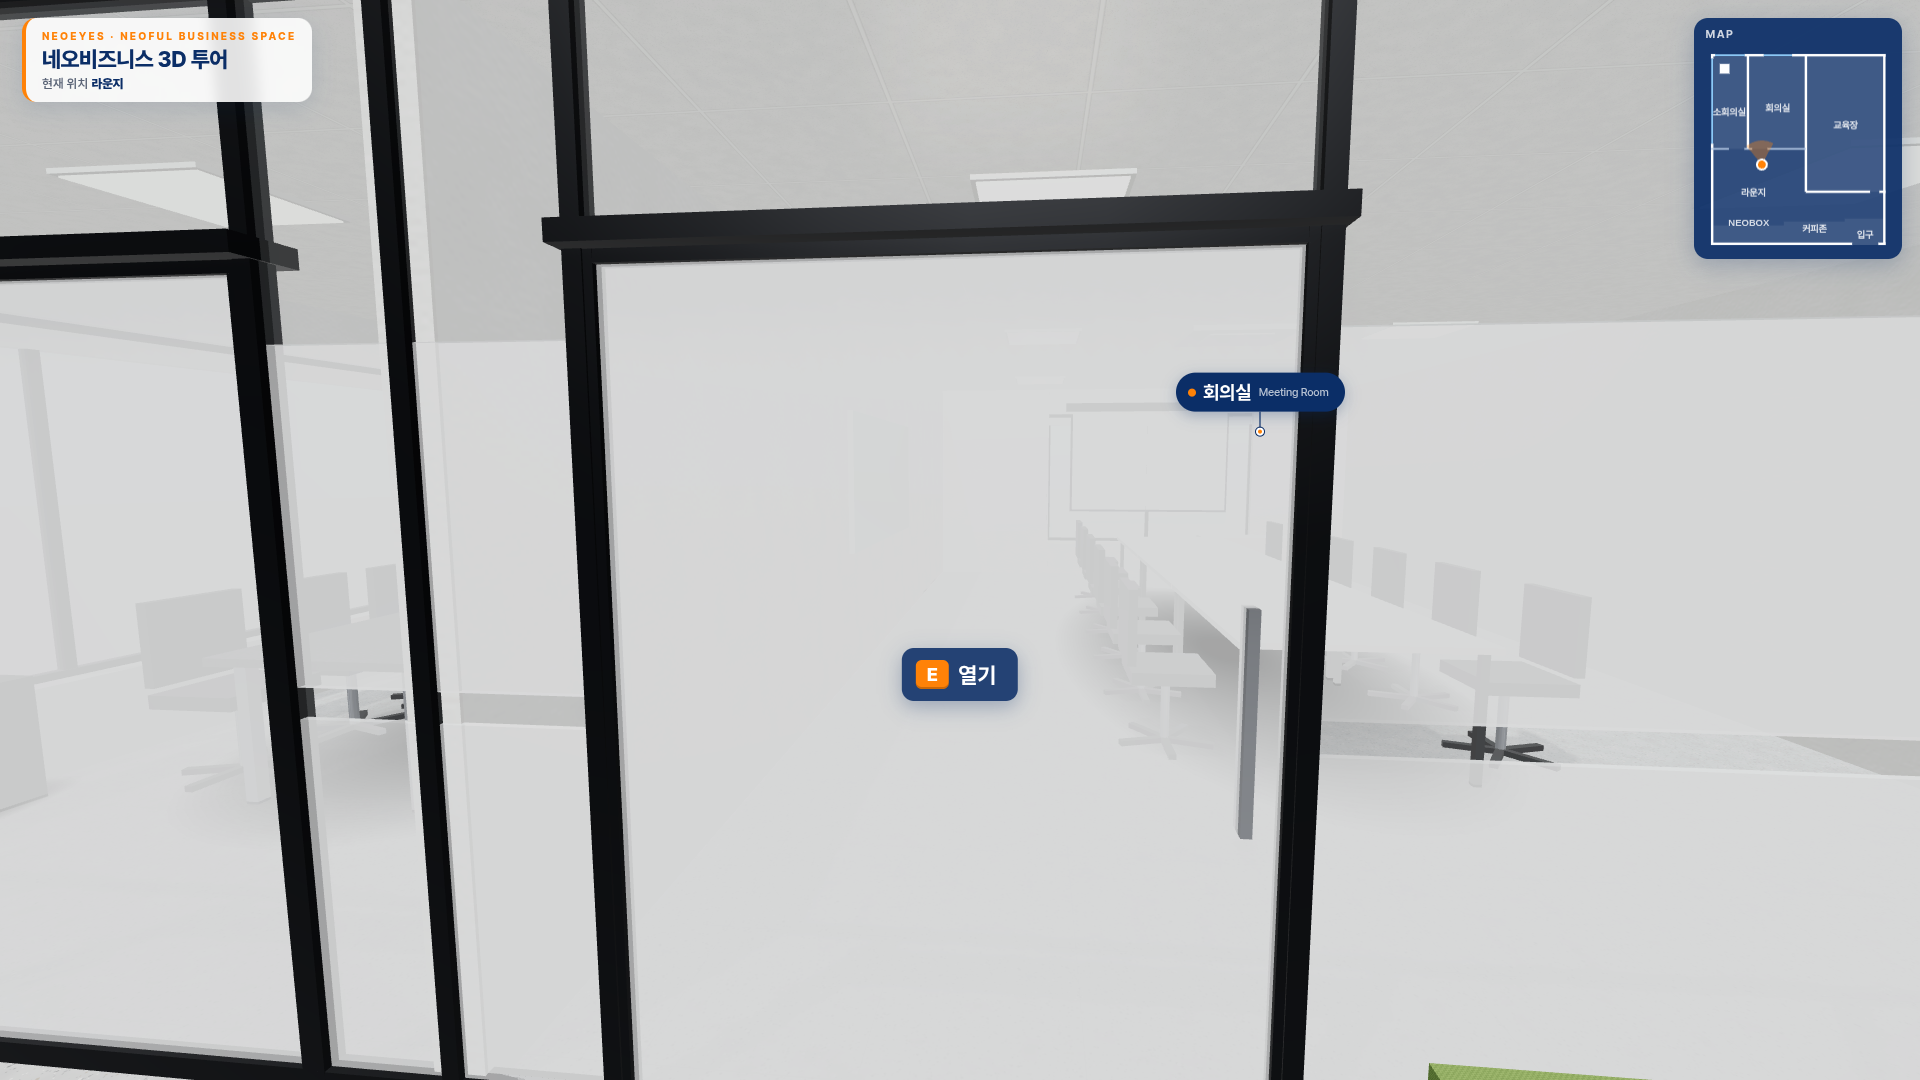
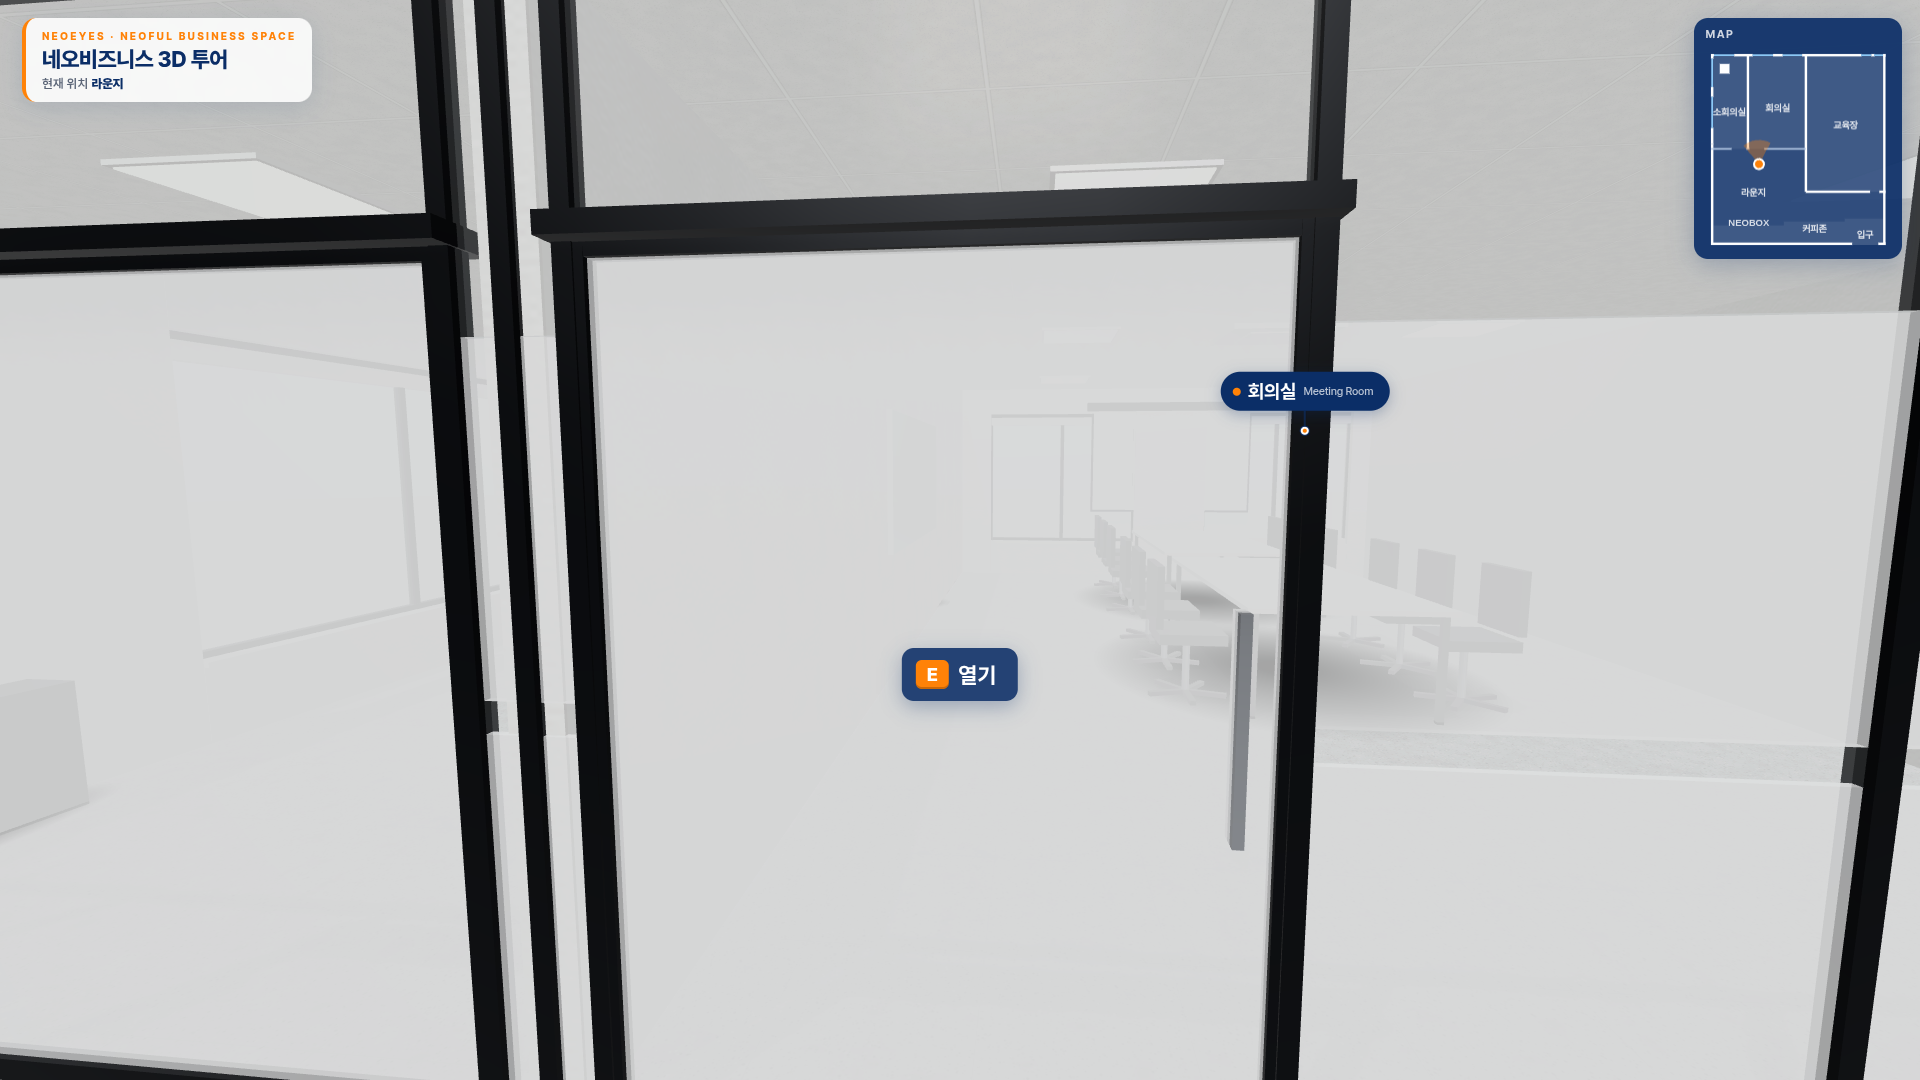
Windows, desks and doors per office sketch

diff --git a/layout.js b/layout.js
@@ -33,7 +33,7 @@ window.LAYOUT = {
      순서가 중요해요: 위에 있는 방이 먼저 판정돼요(라운지는 나머지 전체라 맨 아래).          */
   rooms: [
     { id:'coaching', name:'소회의실', en:'Small Meeting Room', rect:[0, 0, 3.81, 9.74], floor:'floor',
-      label:[1.9, 6.0], jump:{ x:2.6, z:4.7, look:[0.4, 0.9] },
+      label:[1.9, 6.0], jump:{ x:3.0, z:7.9, look:[1.2, 2.2] },
       card:{ photos:['IMG_0415','IMG_0418','IMG_0419','IMG_0416'],
              desc:'창가 쪽 코너에 있는 작은 회의실이에요. 블랙 미팅 테이블과 화이트보드가 있고, 기둥 뒤 창가에는 L자 바 테이블과 바 스툴, 회색 수납 벤치와 주황 큐브 스툴이 있어요.' } },
     { id:'meeting', name:'회의실', en:'Meeting Room', rect:[3.81, 0, 9.79, 9.74], floor:'floor',
@@ -78,14 +78,24 @@ window.LAYOUT = {
                   swing = 열렸을 때 각도(도). NEOBOX 부스 문도 booth 가구에 open:true / swing 을 넣을 수 있어요.          */
   walls: [
     // 바깥벽 — 북쪽(위)
-    { from:[0, 0],     to:[0.42, 0],  type:'solid',  outer:true },
-    { from:[0.42, 0],  to:[3.49, 0],  type:'window', outer:true },   // 소회의실 창
-    { from:[3.49, 0],  to:[5.45, 0],  type:'solid',  outer:true },
-    { from:[5.45, 0],  to:[8.36, 0],  type:'window', outer:true },   // 회의실 창
-    { from:[8.36, 0],  to:[18, 0],    type:'solid',  outer:true },
+    // (2026-11-18 스케치 반영: 초록색 = 창문)
+    { from:[0, 0],     to:[0.3, 0],   type:'solid',  outer:true },
+    { from:[0.3, 0],   to:[2.4, 0],   type:'window', outer:true },   // 소회의실 창 (왼쪽 한 구간)
+    { from:[2.4, 0],   to:[4.3, 0],   type:'solid',  outer:true },
+    { from:[4.3, 0],   to:[6.4, 0],   type:'window', outer:true },   // 회의실 창 ①
+    { from:[6.4, 0],   to:[7.4, 0],   type:'solid',  outer:true },
+    { from:[7.4, 0],   to:[9.4, 0],   type:'window', outer:true },   // 회의실 창 ②
+    { from:[9.4, 0],   to:[15.5, 0],  type:'solid',  outer:true },
+    { from:[15.5, 0],  to:[16.55, 0], type:'window', outer:true },   // 교육장 창 ① (오른쪽 절반, 스크린과 겹치지 않게)
+    { from:[16.55, 0], to:[16.85, 0], type:'solid',  outer:true },
+    { from:[16.85, 0], to:[17.8, 0],  type:'window', outer:true },   // 교육장 창 ②
+    { from:[17.8, 0],  to:[18, 0],    type:'solid',  outer:true },
     // 바깥벽 — 서쪽(왼쪽)
     { from:[0, 0],     to:[0, 0.48],  type:'solid',  outer:true },
-    { from:[0, 0.48],  to:[0, 9.21],  type:'window', outer:true },   // 소회의실 창
+    { from:[0, 0.48],  to:[0, 3.4],   type:'window', outer:true },   // 소회의실 창 ① (위)
+    { from:[0, 3.4],   to:[0, 4.4],   type:'solid',  outer:true },
+    { from:[0, 4.4],   to:[0, 7.6],   type:'window', outer:true },   // 소회의실 창 ② (가운데)
+    { from:[0, 7.6],   to:[0, 9.21],  type:'solid',  outer:true },
     { from:[0, 9.21],  to:[0, 19.6],  type:'solid',  outer:true, molding:'east', moldingFrom:9.9, moldingTo:17.3 },  // 라운지 몰딩 벽 (molding: 몰딩을 붙일 면, From~To 구간)
     // 바깥벽 — 남쪽(아래), 입구 유리 양문
     { from:[0, 19.6],  to:[18, 19.6], type:'solid',  outer:true,
@@ -97,9 +107,9 @@ window.LAYOUT = {
     { from:[3.81, 0],  to:[3.81, 9.74], type:'solid' },                       // 소회의실 | 회의실
     { from:[9.79, 0],  to:[9.79, 14.14], type:'solid', t:0.30, molding:'west', moldingFrom:9.86, moldingTo:14.14 },  // 회의실·라운지 | 교육장
     { from:[0, 9.74],  to:[3.81, 9.74], type:'glass',
-      openings:[ { at:1.85, width:1.59, door:'glass', hinge:'end', swing:-63 } ] },    // 소회의실 앞 유리벽 + 문
+      openings:[ { at:2.12, width:1.55, door:'glass', hinge:'end', swing:-63 } ] },    // 소회의실 앞 유리벽 + 문(동쪽 끝)
     { from:[3.81, 9.74], to:[9.79, 9.74], type:'glass',
-      openings:[ { at:4.24, width:1.59, door:'glass', hinge:'start', swing:63 } ] },   // 회의실 앞 유리벽 + 문
+      openings:[ { at:3.95, width:1.55, door:'glass', hinge:'start', swing:63 } ] },   // 회의실 앞 유리벽 + 문(서쪽 끝, 소회의실 문 바로 옆)
     { from:[9.79, 14.14], to:[18, 14.14], type:'solid', t:0.30,
       openings:[ { at:16.41, width:0.95, door:'glass', frame:'white', hinge:'start', swing:66 } ] }  // 교육장 출입문
   ],
@@ -133,22 +143,23 @@ window.LAYOUT = {
      종류 목록은 수정방법.md 참고                                                     */
   furniture: [
     /* --- 소회의실 --- */
-    { type:'tableSet', x:2.0, z:7.09, w:1.05, d:2.6, top:'darkTop', chairsLeft:4, chairsRight:4, chairInset:0.37, legInset:0.1 },   // 블랙 미팅 테이블 + 의자 4+4
+    { type:'tableSet', x:1.35, z:3.25, w:0.9, d:2.5, top:'darkTop', chairsLeft:3, chairsRight:3, chairInset:0.4, legInset:0.1 },   // 블랙 미팅 테이블(스케치: 서쪽 위쪽, 벽 블록 바로 아래) + 의자 3+3
     { type:'whiteboard', x:3.71, z:7.09, w:2.0, rot:90 },
-    { type:'barCounter', x:0.33, z:1.96, w:0.42, d:3.67 },          // 창가 L자 바 테이블 — 서쪽 창 쪽
+    { type:'barCounter', x:0.33, z:1.06, w:0.42, d:1.88 },          // 창가 L자 바 테이블 — 서쪽 창 쪽 (미팅 테이블과 겹치지 않게 벽 블록 옆까지만)
     { type:'barCounter', x:1.80, z:0.33, w:2.51, d:0.42 },          // 창가 L자 바 테이블 — 북쪽 창 쪽
-    { type:'stool', x:0.86, z:2.44, color:'fabricGray',  h:0.68 },
-    { type:'stool', x:0.86, z:3.19, color:'fabricOrange', h:0.68 },
+    { type:'stool', x:0.72, z:0.8, color:'fabricGray',  h:0.68 },
+    { type:'stool', x:0.72, z:1.55, color:'fabricOrange', h:0.68 },
     { type:'stool', x:2.25, z:0.86, color:'fabricGray',  h:0.68 },
     { type:'stool', x:2.80, z:0.86, color:'fabricGray',  h:0.68 },
     { type:'bench', x:3.52, z:1.24, w:0.4, d:1.0, h:0.42, color:'fabricGray' },
     { type:'cube',  x:3.51, z:2.04, size:0.42, color:'fabricOrange' },
-    { type:'plant', x:2.46, z:2.36, scale:1.0 },
+    { type:'plant', x:3.45, z:2.8, scale:1.0 },
     { type:'cabinet', x:0.32, z:8.94, w:0.35, d:1.2, h:0.6, color:'black' },
-    { type:'block', x:0.32, z:2.8, w:0.08, d:0.06, h:0.14, y:1.02, color:'black' },   // 바 테이블 위 폰 거치대
+    { type:'block', x:0.32, z:1.4, w:0.08, d:0.06, h:0.14, y:1.02, color:'black' },   // 바 테이블 위 폰 거치대
 
     /* --- 회의실 --- */
-    { type:'tableSet', x:6.9, z:4.79, w:1.25, d:5.6, top:'white', modules:3, chairsLeft:6, chairsRight:6 },          // 긴 테이블(3모듈) + 의자 6+6
+    { type:'tableSet', x:6.9, z:2.3, w:1.25, d:2.6, top:'white', chairsLeft:3, chairsRight:3 },   // 회의 테이블 ① (스케치: 가운데 위)
+    { type:'tableSet', x:6.9, z:5.3, w:1.25, d:2.6, top:'white', chairsLeft:3, chairsRight:3 },   // 회의 테이블 ② (가운데 아래)
     { type:'screen', x:6.9, z:0.18, w:2.2, rot:180 },
     { type:'whiteboard', x:3.91, z:4.79, w:2.4, rot:-90 },
     { type:'cabinet', x:8.4, z:0.47, w:1.6, d:0.4, h:0.6, color:'white' },

diff --git a/app.js b/app.js
@@ -5,7 +5,7 @@ import { OrbitControls } from 'three/addons/OrbitControls.js';
 import { CSS2DRenderer, CSS2DObject } from 'three/addons/CSS2DRenderer.js';
 import { RoomEnvironment } from 'three/addons/RoomEnvironment.js';
 import { mergeGeometries } from 'three/addons/BufferGeometryUtils.js';
-import { makeTextures, textTexture } from './textures.js?v=11181900';
+import { makeTextures, textTexture } from './textures.js?v=11181930';
 
 const L = window.LAYOUT, B = L.building, H = B.ceiling, EYE = B.eye || 1.6, W = B.width, D = B.depth;
 const TW = Object.assign({ exterior: 0.24, interior: 0.14, thick: 0.3 }, B.wall || {});
@@ -625,6 +625,7 @@ const ORBIT_HOME = { pos: new THREE.Vector3(W / 2 - 8.5, 26.5, D / 2 + 21.5), ta
   ORBIT_HOME.pos.sub(ORBIT_HOME.target).multiplyScalar(k).add(ORBIT_HOME.target);
 }
 let orbitSaved = { pos: ORBIT_HOME.pos.clone(), target: ORBIT_HOME.target.clone() };
+if (SHOT === 'plan') orbitSaved = { pos: new THREE.Vector3(W / 2, 33, D / 2 + 3.4), target: new THREE.Vector3(W / 2, 0, D / 2 + 0.2) };   // 위에서 내려다본 평면 스크린샷용
 const ease = (t) => t < 0.5 ? 4 * t * t * t : 1 - Math.pow(-2 * t + 2, 3) / 2;
 const clamp01 = (t) => Math.max(0, Math.min(1, t));
 function quatLook(pos, target) { const m = new THREE.Matrix4().lookAt(pos, target, new THREE.Vector3(0, 1, 0)); return new THREE.Quaternion().setFromRotationMatrix(m); }
@@ -819,7 +820,7 @@ addEventListener('resize', () => { camera.aspect = innerWidth / innerHeight; cam
 
 /* ---------------- start ---------------- */
 const SHOTS = { entrance: 'entrance', lounge: 'lounge', edu: 'classroom', focus: 'focus' };
-const startMode = SHOT ? (SHOT === 'orbit' || SHOT === 'dollhouse' ? 'orbit' : 'walk') : (params.get('mode') || L.start?.mode || 'orbit');
+const startMode = SHOT ? (SHOT === 'orbit' || SHOT === 'dollhouse' || SHOT === 'plan' ? 'orbit' : 'walk') : (params.get('mode') || L.start?.mode || 'orbit');
 if (startMode === 'walk') goRoom(SHOTS[SHOT] || params.get('room') || L.start?.room || 'entrance', true);
 else { player.x = ROOMS.entrance.jump.x; player.z = ROOMS.entrance.jump.z; enterOrbit(true); }
 document.fonts.ready.then(() => { tick(); setTimeout(() => { const ld = document.getElementById('loading'); ld.style.opacity = 0; setTimeout(() => ld.remove(), 450); window.__ready = true; }, 400); });

diff --git a/index.html b/index.html
@@ -123,8 +123,8 @@ body.shot #doorPrompt{font-size:22px;padding:12px 22px 12px 14px}body.shot #door
   </div>
 </aside>
 <!-- 공간 설정: 치수·가구 배치는 layout.js 에서 수정 -->
-<script src="layout.js?v=11181900"></script>
+<script src="layout.js?v=11181930"></script>
 <script type="importmap">{"imports":{"three":"./lib/three.module.min.js","three/addons/":"./lib/addons/"}}</script>
-<script type="module" src="app.js?v=11181900"></script>
+<script type="module" src="app.js?v=11181930"></script>
 </body>
 </html>
